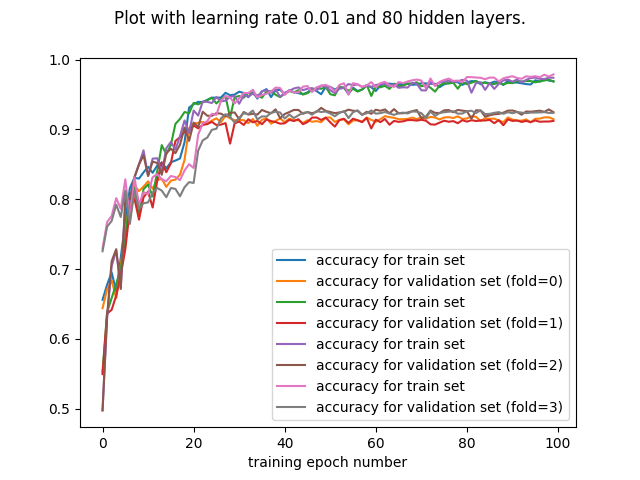
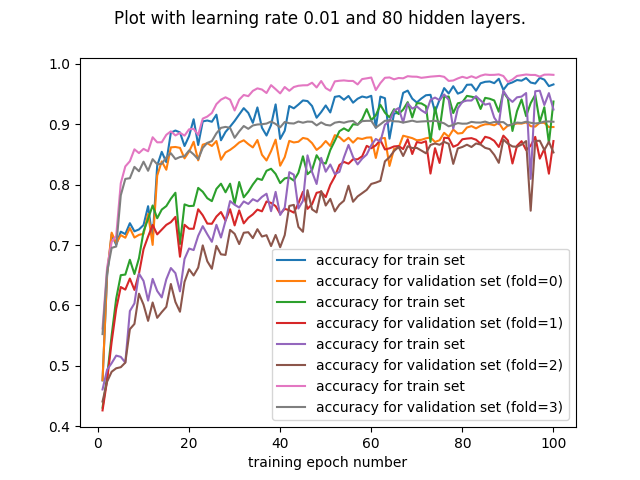
Moving files around. Creating more graphs. New classes.

diff --git a/mlp/hand-in/train.py b/mlp/hand-in/train.py
@@ -9,9 +9,7 @@ import matplotlib.pyplot as plt
 from batch_feed import RandomBatchFeeder
 
 class Train:
-  def __init__(self, num_epochs,  learning_rate, size_hidden_layer, leave_out_fold, num_folds):
-    plt.clf()
-    
+  def __init__(self, num_epochs,  learning_rate, size_hidden_layer, leave_out_fold, num_folds):    
     print 'Number of epochs: ', num_epochs
     print 'Learning rate: ', learning_rate
     print 'Number of hidden layers: ', size_hidden_layer
@@ -23,7 +21,6 @@ class Train:
     self.leave_out_fold = leave_out_fold
     
     # necessary arrays to make the plot of the error-rate on training and validation set wirth respect to the number of training epochs
-    self.training_epochs = [] # stores the number of epoche
     self.accurancy_train_set = []
     self.accurancy_valid_set = []
     
@@ -43,12 +40,10 @@ class Train:
     self.__learn( random_seed , train_x , train_y , test_x , test_y )
 
     # for cross-validation: stores the plot of error-rate on training and validation set with respect to training epochs
-    self.training_epochs = numpy.array( self.training_epochs ) # change List to Array
     self.accurancy_train_set = numpy.array(self.accurancy_train_set)
     self.accurancy_valid_set = numpy.array(self.accurancy_valid_set)
     
     self.__write_to_file()
-    self.__plot()
     
   ##
   #
@@ -126,7 +121,6 @@ class Train:
     for epoch in range( self.num_epochs ):
         total_loss = 0
         num_batches = int(train_x.shape[0] / batch_size)
-        self.training_epochs.append(epoch)
         
         # for every batch, run optimizer, total loss for that batch
         for i in range(num_batches):
@@ -155,6 +149,12 @@ class Train:
     # return last element
     return self.accurancy_valid_set[-1]
     
+  def get_accuracy_train_set( self ):
+    return self.accurancy_train_set
+  
+  def get_accuracy_test_set( self ):
+    return self.accurancy_valid_set
+    
   ##
   #
   # Writes data to a csv file
@@ -171,17 +171,3 @@ class Train:
     writer.writerow( self.accurancy_valid_set )
     result_file.close()
 
-  ##
-  #
-  # Plots results
-  # We always write the same plot so all lines should be on one plot at the end
-  #
-  ##
-  def __plot( self ):
-    plt.plot(self.training_epochs, self.accurancy_train_set, label='accuracy for train set'.format(i=1))
-    plt.plot(self.training_epochs, self.accurancy_valid_set, label='accuracy for validation set (fold='+str(self.leave_out_fold)+')'.format(i=2))
-    plt.legend(loc='best')
-    plt.xlabel('training epoch number')
-    plt.suptitle('Plot with learning rate ' + str( self.learning_rate ) + " and " + str(self.size_hidden_layer) + " hidden layers.")
-    print("Plot with error-rate of training and validation set depending on training epoch is made (for cross-validation).")
-    plt.savefig('plots/folds/Plot with learning rate ' + str( self.learning_rate ) + " and " + str(self.size_hidden_layer) + " hidden layers fold.")

diff --git a/mlp/hand-in/plotter.py b/mlp/hand-in/plotter.py
@@ -4,9 +4,11 @@ import csv as csv
 
 ##
 # Plotting full results
+# and writing best results into
+# results.txt
 ##
-class PlotFull:
-  def __init__( self , num_epochs , learning_rate , size_hidden_layer , num_folds):   
+class Plot:    
+  def plot_full( self , num_epochs , learning_rate , size_hidden_layer , num_folds ):
     plt.clf() # reset plot
     
     test = numpy.genfromtxt('results/results-test.csv', delimiter=',')
@@ -27,8 +29,29 @@ class PlotFull:
     plt.suptitle('Plot of mean of all ' + str(num_folds) + ' folds with learning rate ' + str( learning_rate ) + " and " + str(size_hidden_layer) + " hidden layers.")
     plt.savefig('plots/full/Plot with learning rate ' + str( learning_rate ) + " and " + str(size_hidden_layer) + " hidden layers with " + str(num_folds) + " folds.")
     
+    
     result_file = open("results.csv", "ab")
     writer = csv.writer(result_file, delimiter=",")
-    writer.writerow( mean_train )
-    writer.writerow( mean_test )
+    # learning rate , number of hidden layers , number of epochs, best value , standard deviation
+    to_write = [ learning_rate, size_hidden_layer, num_epochs, numpy.max(mean_test), stdev_test[ numpy.argmax(mean_test) ] ]
+    writer.writerow( to_write )
     result_file.close()
+    
+    plt.clf()
+
+  ##
+  #
+  # Plots folds results
+  # We always write the same plot so all lines should be on one plot at the end.
+  # This has to be done by hand outside of this method
+  #
+  ##
+  def plot_fold( self, training_epochs , accuracy_train_set , accuracy_test_set , fold , learning_rate , size_hidden_layer ):
+    training_epochs = numpy.arange(1, training_epochs+1) # create array [1, 2, ... , n] where n is the training epochs
+    plt.plot( training_epochs , accuracy_train_set , label='accuracy for train set'.format(i=1))
+    plt.plot( training_epochs , accuracy_test_set , label='accuracy for validation set (fold='+str(fold)+')'.format(i=2))
+    plt.legend(loc='best')
+    plt.xlabel('training epoch number')
+    plt.suptitle('Plot with learning rate ' + str( learning_rate ) + " and " + str( size_hidden_layer ) + " hidden layers.")
+    plt.savefig('plots/folds/Plot with learning rate ' + str( learning_rate ) + " and " + str( size_hidden_layer ) + " hidden layers fold.")
+  

diff --git a/mlp/hand-in/runner.py b/mlp/hand-in/runner.py
@@ -1,0 +1,76 @@
+##
+#
+# Runs a full cicle with all the learning rates
+# and all the possible hidden layers.
+#
+# Run this with 
+# run.py -e 100 -f 4
+#
+##
+
+import tensorflow as tf
+import matplotlib.pyplot as plt
+import numpy as numpy
+import sys
+import getopt
+import csv as csv
+import os as os
+import matplotlib.pyplot as plt
+
+from data_loader import load_data
+from batch_feed import RandomBatchFeeder
+
+# Created by Pas
+from train import Train
+from loader import Loader
+from plotter import Plot
+
+try:
+  opts, args = getopt.getopt(sys.argv[1:], "he:f:", ["help","num_epochs=","num_folds="])
+except getopt.GetoptError:
+  print getopt.GetoptError.msg
+  print 'runner.py -e <number of Epochs> -f <number of Folds>'
+  sys.exit(2)
+
+for opt, arg in opts:
+  if opt in ("-h", "--help"):
+    print 'runner.py -e <number of Epochs> -f <number of Folds>'
+    sys.exit()
+  elif opt in ("-e", "--num_epochs"):
+    num_epochs = int(arg)
+  elif opt in ("-f", "--num_folds"):
+    num_folds = int(arg)
+    
+# Learning rates to test
+learning_rates = [ 0.009 ]
+
+# Hidden layer sizes to test
+hidden_layers_sizes = [ 20 , 40 , 60 , 80 ]
+
+# Used to load training and test data
+loader = Loader()
+plot = Plot()
+
+for learning_rate in learning_rates:
+  for size_hidden_layer in hidden_layers_sizes:
+    # Clean results folder
+    folder = 'results'
+    for the_file in os.listdir(folder):
+        file_path = os.path.join(folder, the_file)
+        try:
+            if os.path.isfile(file_path):
+              os.unlink(file_path)
+        except Exception as e:
+            print(e)
+  
+    plt.clf()
+    # Cross-validation
+    for leave_out_fold in range(0, num_folds):
+      train = Train(num_epochs, learning_rate, size_hidden_layer, leave_out_fold, num_folds)
+      (train_x, train_y, test_x, test_y) = loader.from_folds( num_folds , leave_out_fold )
+      train.start(train_x, train_y, test_x, test_y)
+      plot.plot_fold( num_epochs , train.get_accuracy_train_set() , train.get_accuracy_test_set() , leave_out_fold , learning_rate , size_hidden_layer )
+
+    # Plot full result
+    plot.plot_full( num_epochs , learning_rate , size_hidden_layer , num_folds )
+

diff --git a/mlp/hand-in/final.py b/mlp/hand-in/final.py
@@ -1,0 +1,27 @@
+##
+#
+# This trains the learning network with the choosen 
+# optimized parameters with the full train set and
+# against the yet unseen test set.
+#
+##
+
+from train import Train
+from loader import Loader
+
+# Chosen optimized parameters
+
+hidden_layer_size = 70
+learning_rate = 0.009
+num_epochs = 250
+
+train_set_str = "data/train-orig.csv"
+test_set_str = "data/test.csv"
+
+loader = Loader()
+(train_x, train_y, test_x, test_y) = loader.from_files(train_set_str, test_set_str)
+
+train = Train( num_epochs , learning_rate , hidden_layer_size , 0 , 0 )
+train.start(train_x, train_y, test_x, test_y)
+print( train.get_accuracy( test_x , test_y ) )
+
